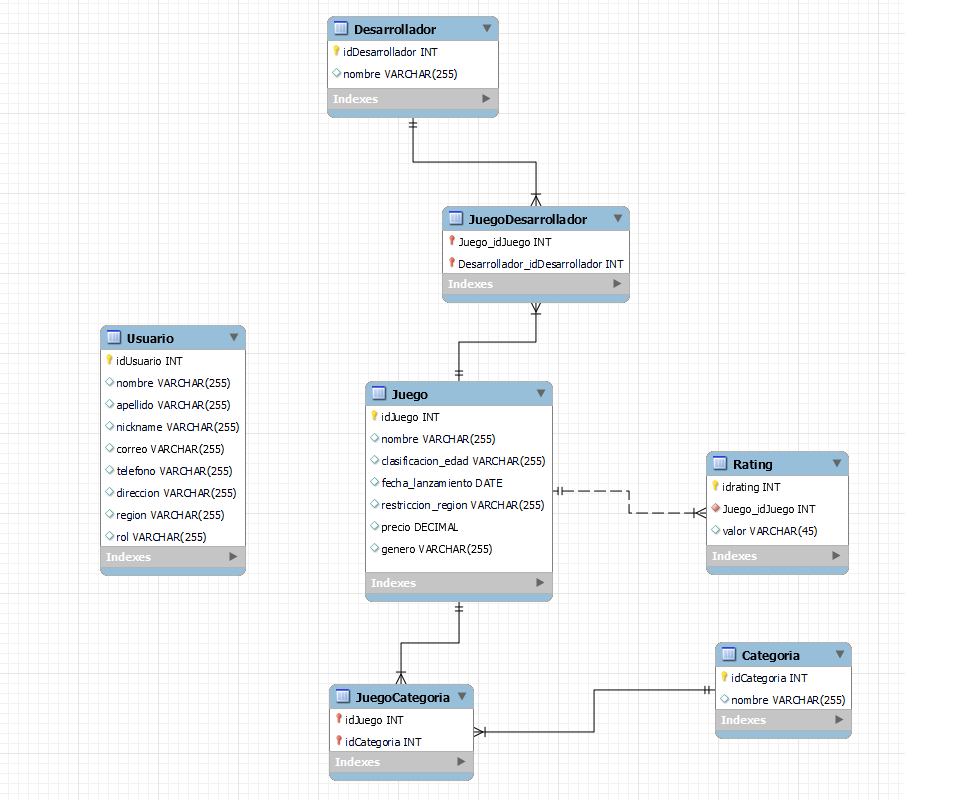
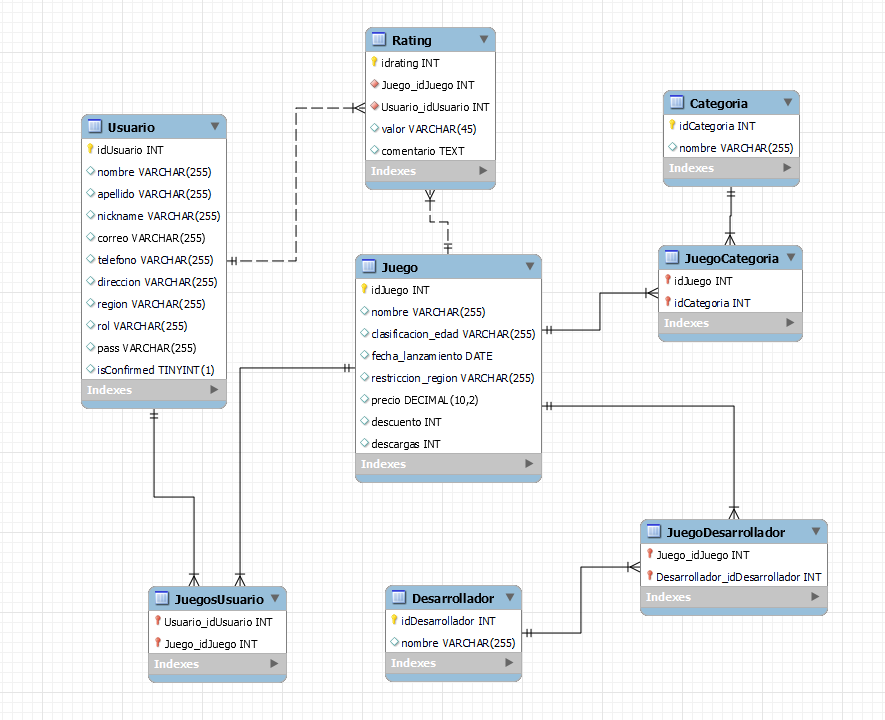
[Update] MySQL Model & Script Update

diff --git a/endpoints.md b/endpoints.md
@@ -40,8 +40,11 @@ http://localhost:3002/api/categorias
 http://localhost:3002/api/ratings
 {
     "Juego_idJuego": 1,  
-    "valor": "5"
+    "Usuario_idUsuario": 1,
+    "valor": "5",
+    "comentario": "Muy bueno"
 }
+
 
 ```
 
